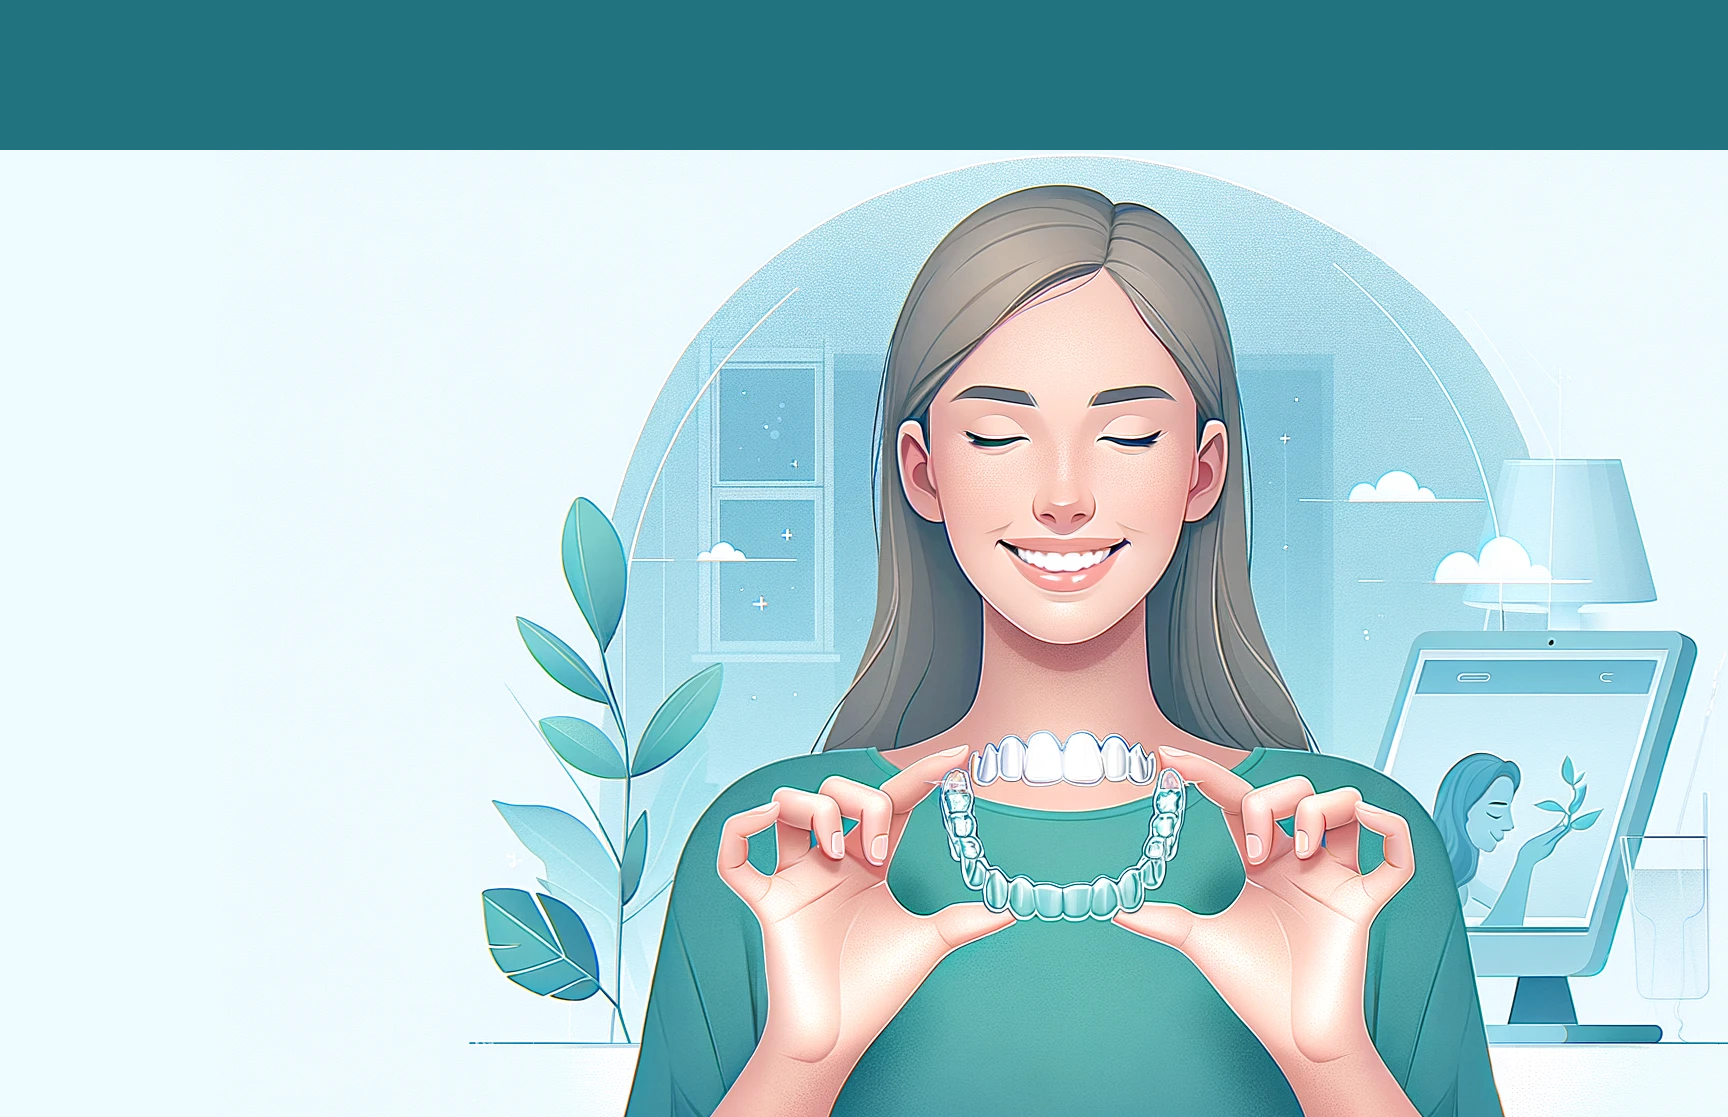
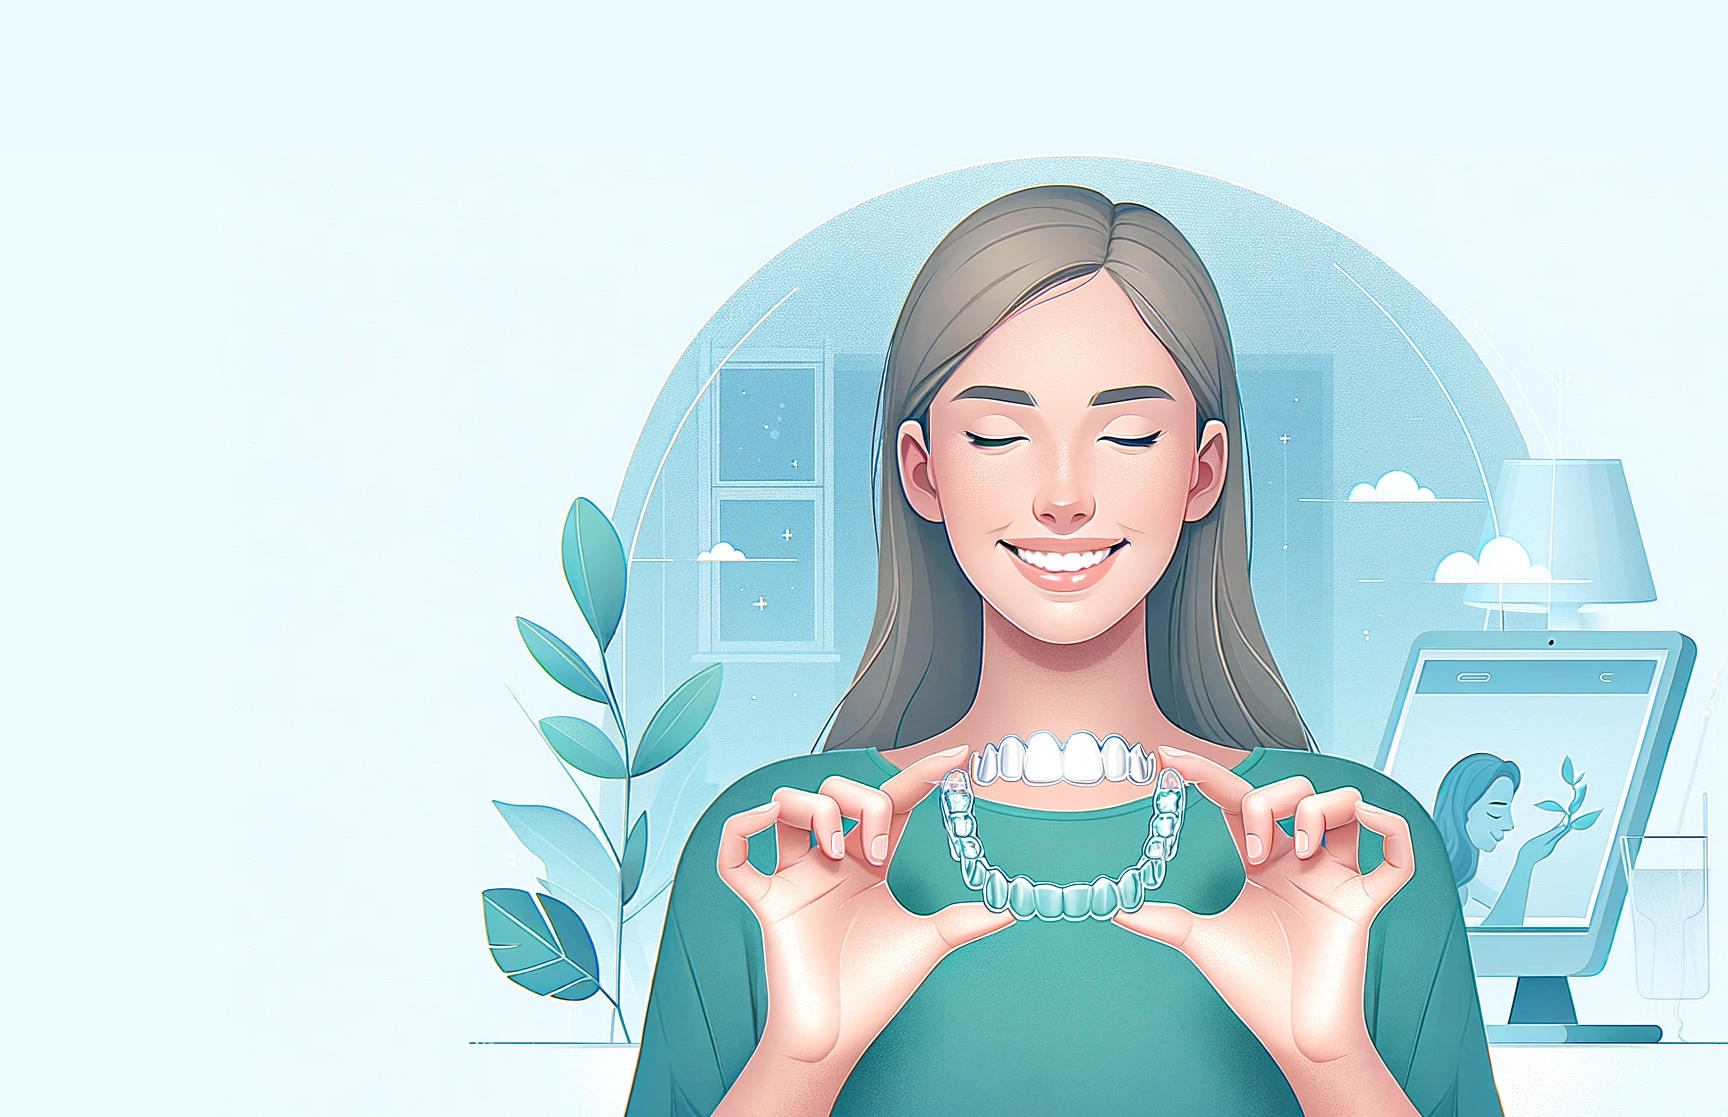
added hero section

Changed region(s): [[0.0, 0.0, 1.0, 0.1522]]

diff --git a/my-teeth-aligner-tracker/src/components/hero/hero.js b/my-teeth-aligner-tracker/src/components/hero/hero.js
@@ -1,0 +1,30 @@
+import React from "react";
+import { Button } from "react-bootstrap";
+import heroImage from "./hero.png"; // Importing the hero image
+import "./hero.css";
+
+function HeroSection() {
+  return (
+    <div
+      className="hero-section"
+      style={{ backgroundImage: `url(${heroImage})` }}
+    >
+      <div className="container">
+        <div className="row align-items-center" style={{ minHeight: "50vh" }}>
+          {" "}
+          {/* Adjust height as needed */}
+          <div className="col-md-6 ms-3">
+            <h1 className="hero-title text-black">
+              Track your smile journey with ease
+            </h1>
+            <Button className="get-started-btn" href="#get-started">
+              Get Started
+            </Button>
+          </div>
+        </div>
+      </div>
+    </div>
+  );
+}
+
+export default HeroSection;

diff --git a/my-teeth-aligner-tracker/src/components/hero/hero.css b/my-teeth-aligner-tracker/src/components/hero/hero.css
@@ -1,0 +1,18 @@
+.hero-section {
+  background-position: center;
+  background-repeat: no-repeat;
+  background-size: cover;
+  color: white; /* Assuming white text for contrast */
+  min-height: 100vh;
+}
+
+.hero-title {
+  font-weight: bold;
+  margin-bottom: 1rem;
+  font-size: 5rem;
+}
+
+.hero-section .get-started-btn {
+  background-color: #83c5dc;
+  font-size: 2rem;
+}

diff --git a/my-teeth-aligner-tracker/src/App.js b/my-teeth-aligner-tracker/src/App.js
@@ -1,8 +1,14 @@
 import "./App.css";
 import MyNavbar from "./components/navbar/navbar";
-
+import HeroSection from "./components/hero/hero";
 function App() {
-  return <MyNavbar />;
+  return (
+    <>
+      {" "}
+      <MyNavbar />
+      <HeroSection />
+    </>
+  );
 }
 
 export default App;

diff --git a/my-teeth-aligner-tracker/src/index.css b/my-teeth-aligner-tracker/src/index.css
@@ -10,3 +10,12 @@ code {
   font-family: source-code-pro, Menlo, Monaco, Consolas, "Courier New",
     monospace;
 }
+
+/* Custom CSS file */
+
+/* Ensure this comes after the Bootstrap CSS import */
+@media (min-width: 1400px) {
+  .container {
+    max-width: 1600px;
+  }
+}
